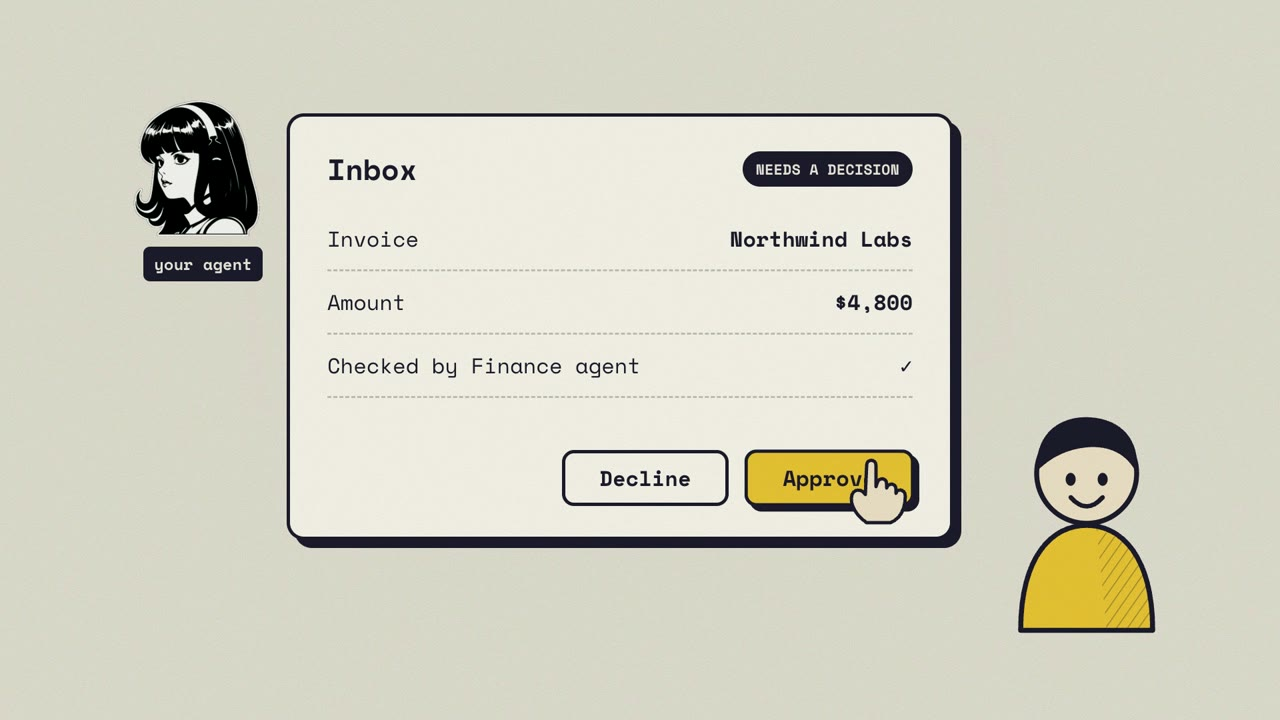
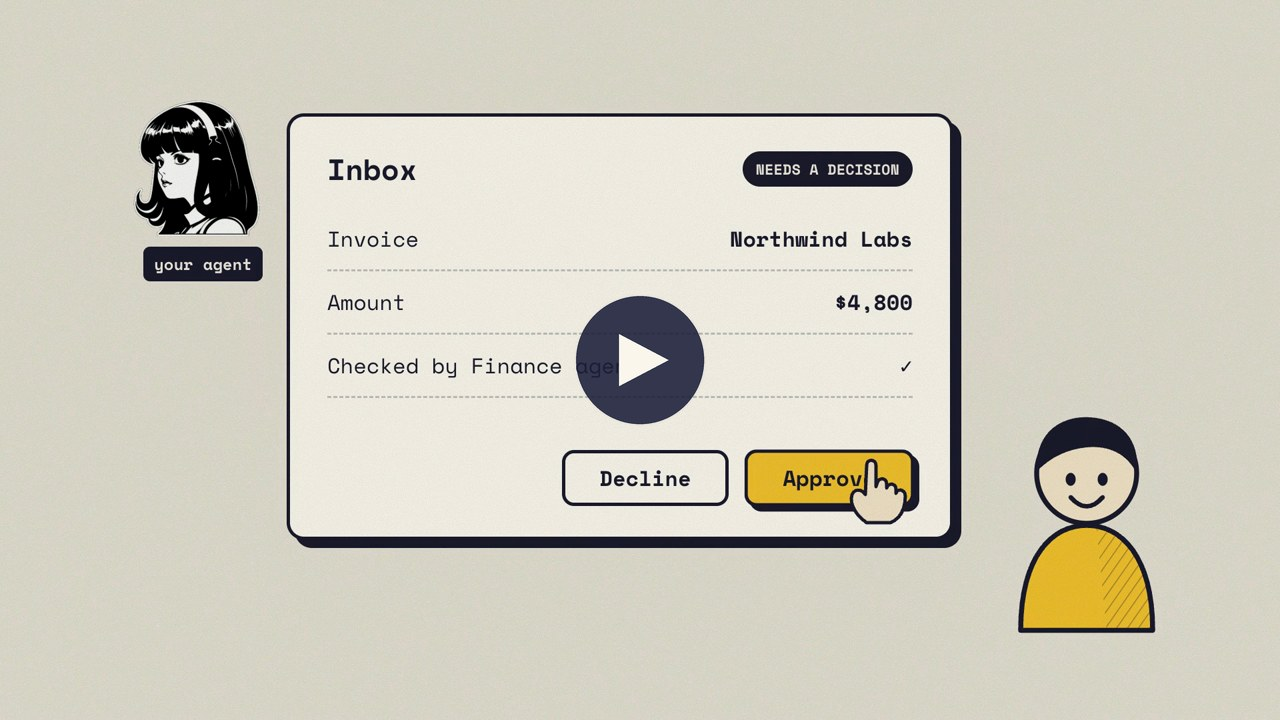
Use a clickable poster, since GitHub strips inline video tags

Changed region(s): [[0.4375, 0.3972, 0.5625, 0.6111]]

diff --git a/README.md b/README.md
@@ -1,7 +1,5 @@
 # Hermes Teams Demo
 
-<video src="https://github.com/bflynn4141/hermes-enterprise/raw/main/docs/assets/readme-video.mp4" poster="docs/assets/readme-video-poster.jpg" controls width="100%"></video>
-
 [![Watch the 33-second overview](docs/assets/readme-video-poster.jpg)](docs/assets/readme-video.mp4)
 
 Most teams want to work with Hermes, but they do not know how to fit an agent
